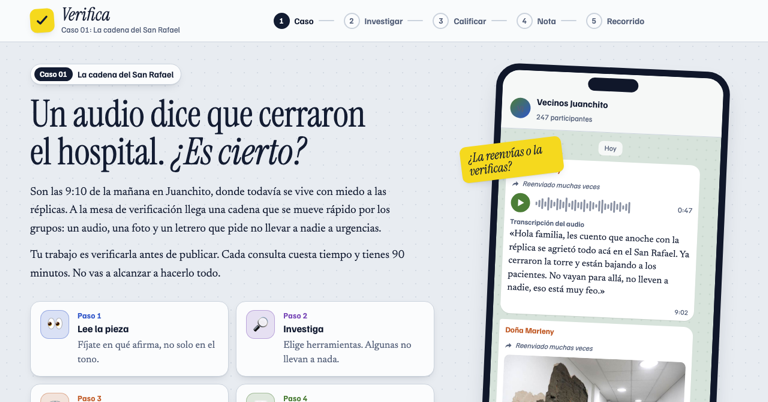
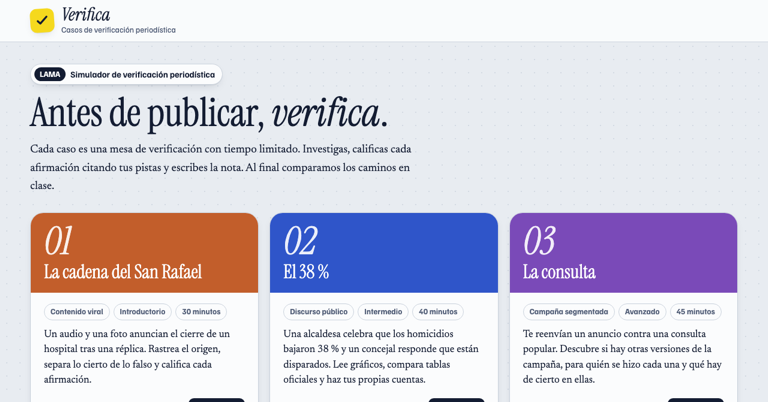
Actualiza la tarjeta de Verifica a sus tres casos
Nueva descripción y miniatura con la portada de casos (768×402, sacada
con Chrome sin interfaz a 1280×670).

diff --git a/artefactos.html b/artefactos.html
@@ -98,11 +98,11 @@ height="0" width="0" style="display:none;visibility:hidden"></iframe></noscript>
     <div class="cards">
 
       <div class="card" data-cat="experimental">
-        <div class="card-thumb"><img src="assets/img/Artefactos/verifica.png" alt="Verifica: portada del caso La cadena del San Rafael, con la cadena viral en un teléfono"></div>
+        <div class="card-thumb"><img src="assets/img/Artefactos/verifica.png" alt="Verifica: portada con los tres casos, La cadena del San Rafael, El 38 % y La consulta"></div>
         <div class="card-body">
           <span class="card-badge">Experimentación crítica</span>
           <h3>Verifica</h3>
-          <p>Cada estudiante verifica una cadena viral ficticia con tiempo limitado, califica sus afirmaciones citando pistas y compara su recorrido en plenaria.</p>
+          <p>Tres casos de verificación con tiempo limitado: una cadena viral, un discurso con cifras y una campaña segmentada. Cada estudiante investiga, califica afirmaciones citando pistas y compara su recorrido en plenaria.</p>
           <div class="card-tags">
             <span class="tag">#verificación</span>
             <span class="tag">#desinformación</span>
